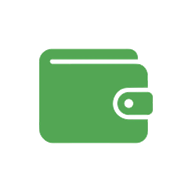
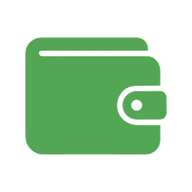
Add files via upload

Changed region(s): [[0.125, 0.1875, 0.875, 0.8125]]

diff --git a/service-worker.js b/service-worker.js
@@ -1,7 +1,7 @@
 /* Wallex service worker: app shell works fully offline.
    Strategy: serve from cache instantly, refresh the cache in the background,
    so changes to your files show up on the next launch. */
-const CACHE = 'wallex-shell-v9';
+const CACHE = 'wallex-shell-v10';
 const ASSETS = [
   './',
   './index.html',
@@ -13,6 +13,9 @@ const ASSETS = [
   './icon-180.png',
   './icon-192.png',
   './icon-512.png',
+  './icon-1024.png',
+  './icon-maskable-512.png',
+  './icon-maskable-1024.png',
   './logo-dragonfi.png',
   './logo-gcash.png',
   './logo-gotyme.png',
